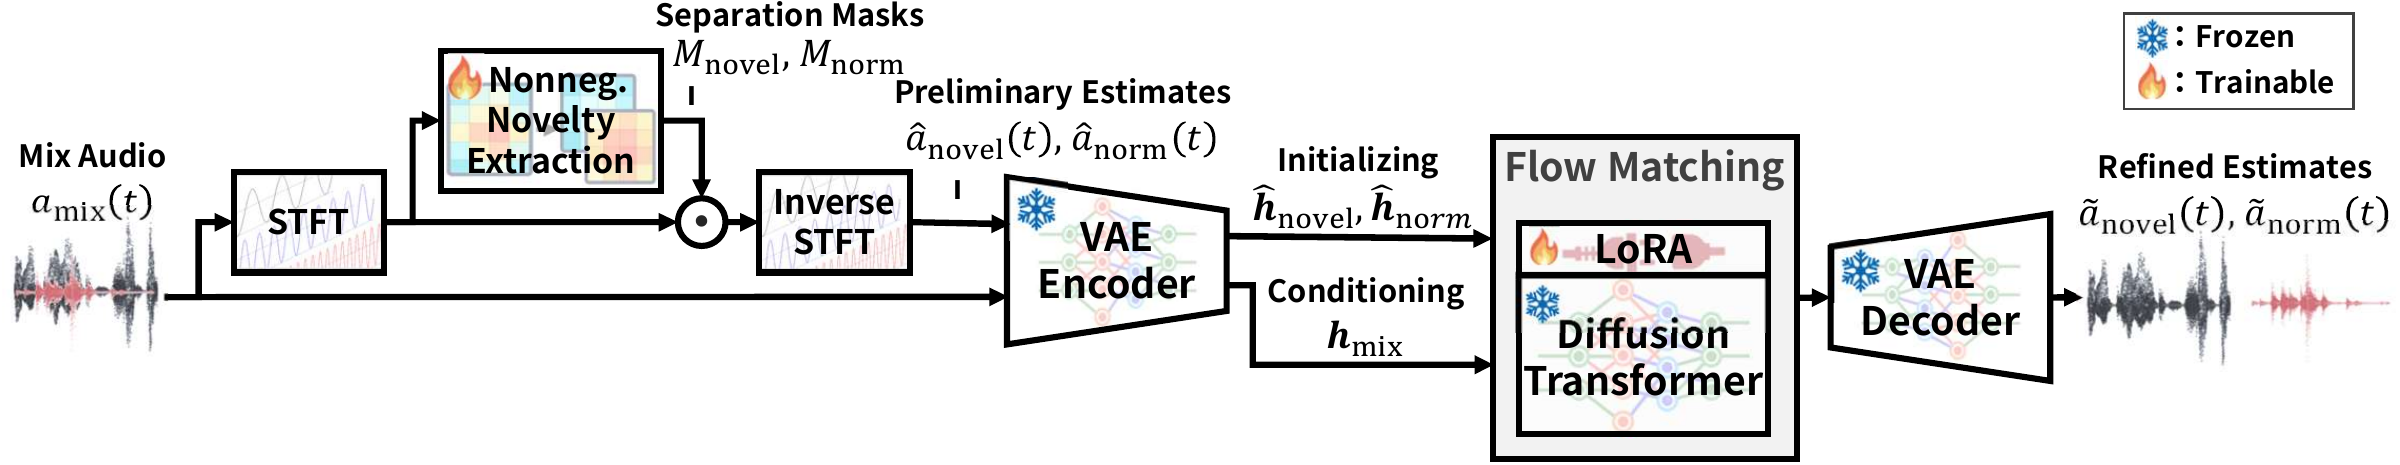
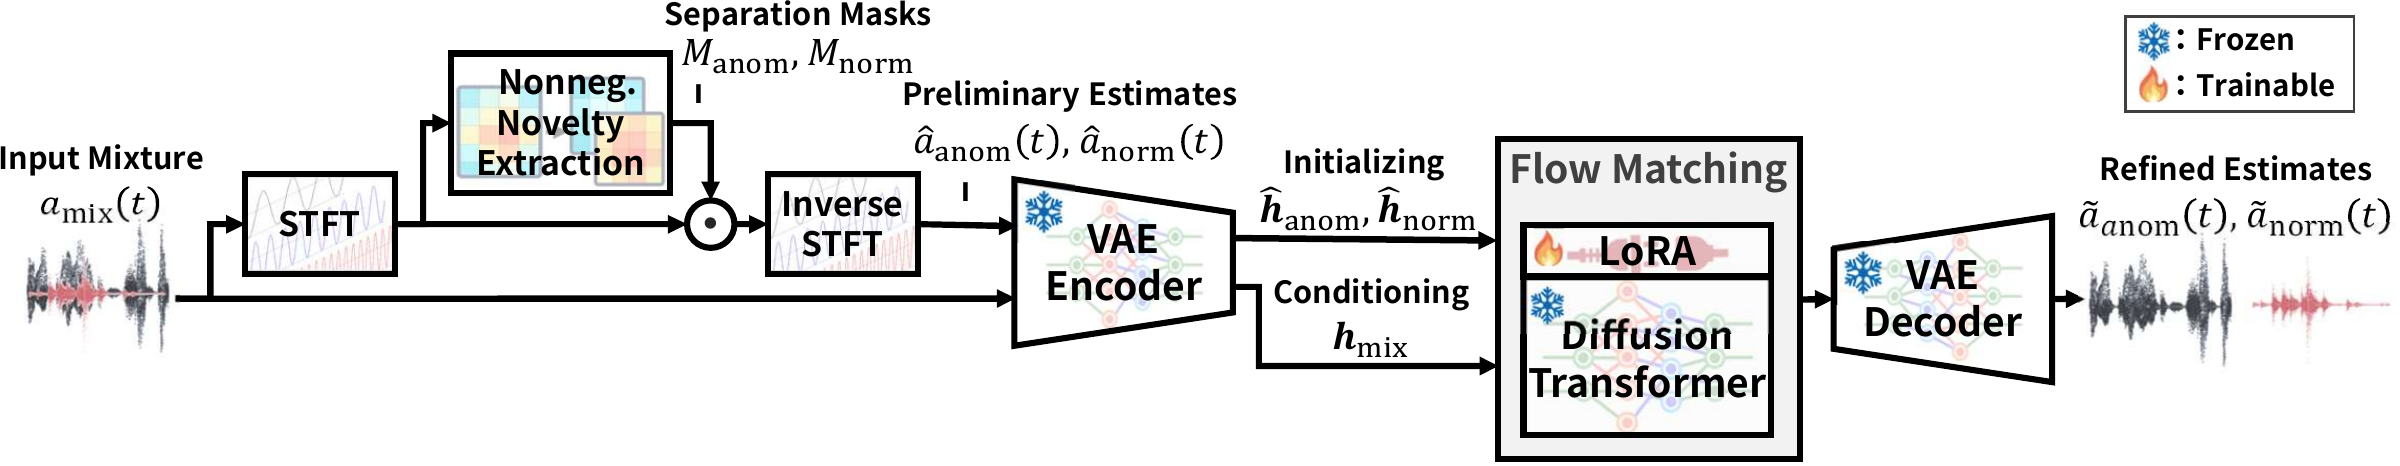
Update the project page architecture figure from the revised paper

diff --git a/docs/index.html b/docs/index.html
@@ -6,7 +6,7 @@
   <meta name="description" content="AnomSep combines optimization-based separation and deep neural refinement for anomaly detection with listenable explanations. Listen to normal and novel sound examples.">
   <meta property="og:title" content="AnomSep: Bridging Optimization-Based Separation and Deep Neural Refinement for Anomaly Detection with Listenable Explanations">
   <meta property="og:description" content="Hear the evidence behind an anomaly detection decision. Code, model weights, and listening examples.">
-  <meta property="og:image" content="https://kokieto.github.io/AnomSep/assets/architecture.png">
+  <meta property="og:image" content="https://kokieto.github.io/AnomSep/assets/architecture.png?v=a99f5c93">
   <meta name="theme-color" content="#185c53">
   <link rel="canonical" href="https://kokieto.github.io/AnomSep/">
   <title>AnomSep: Bridging Optimization-Based Separation and Deep Neural Refinement for Anomaly Detection with Listenable Explanations</title>
@@ -39,7 +39,7 @@
         <article><span class="step-number">03</span><h3>Detect and listen</h3><p>The energy of the refined novel component provides a novelty score. The same component can be played back as a listenable explanation.</p></article>
       </div>
       <figure class="architecture">
-        <img src="assets/architecture.png" alt="AnomSep pipeline: a mixture enters NNE; the preliminary normal and novel estimates are encoded, refined by flow matching conditioned on the mixture, and decoded into refined estimates." width="2400" height="465">
+        <img src="assets/architecture.png?v=a99f5c93" alt="AnomSep pipeline: a mixture enters NNE; the preliminary normal-sound and anomalous-sound estimates are encoded, refined by flow matching conditioned on the mixture, and decoded into refined estimates." width="2400" height="466">
         <figcaption>AnomSep initializes neural refinement with the source estimates produced by NNE.</figcaption>
       </figure>
     </section>
